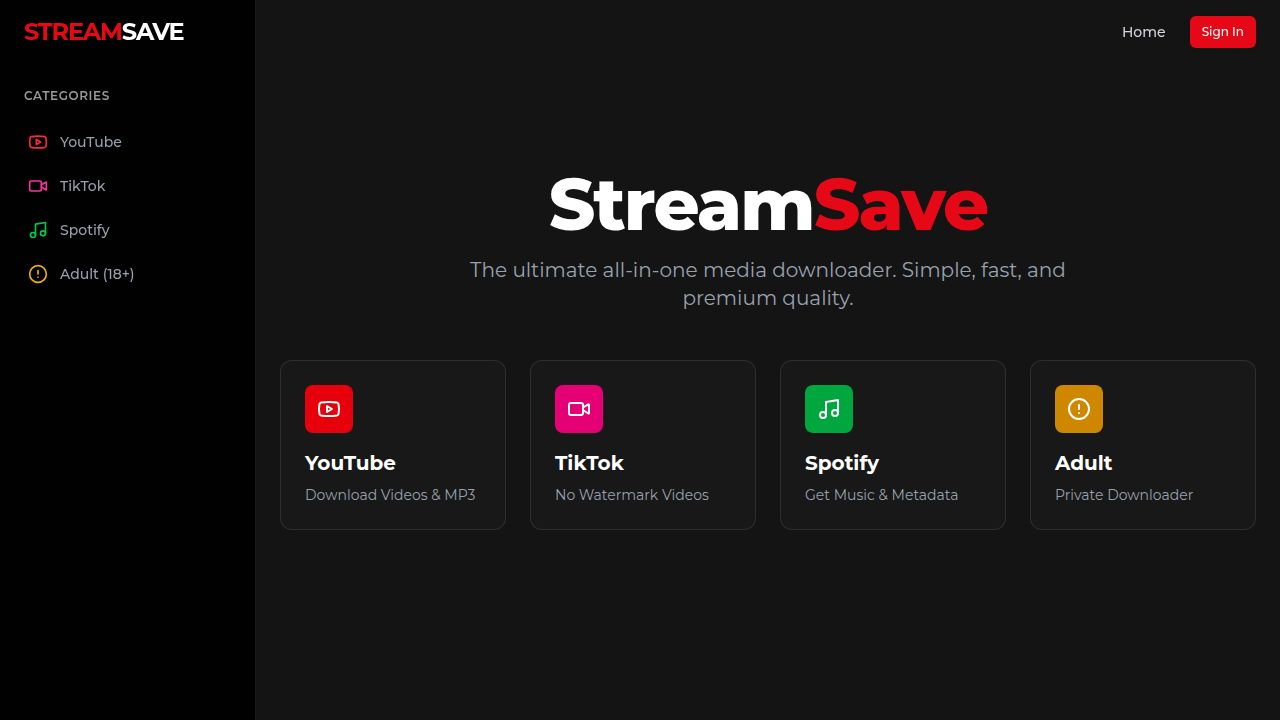
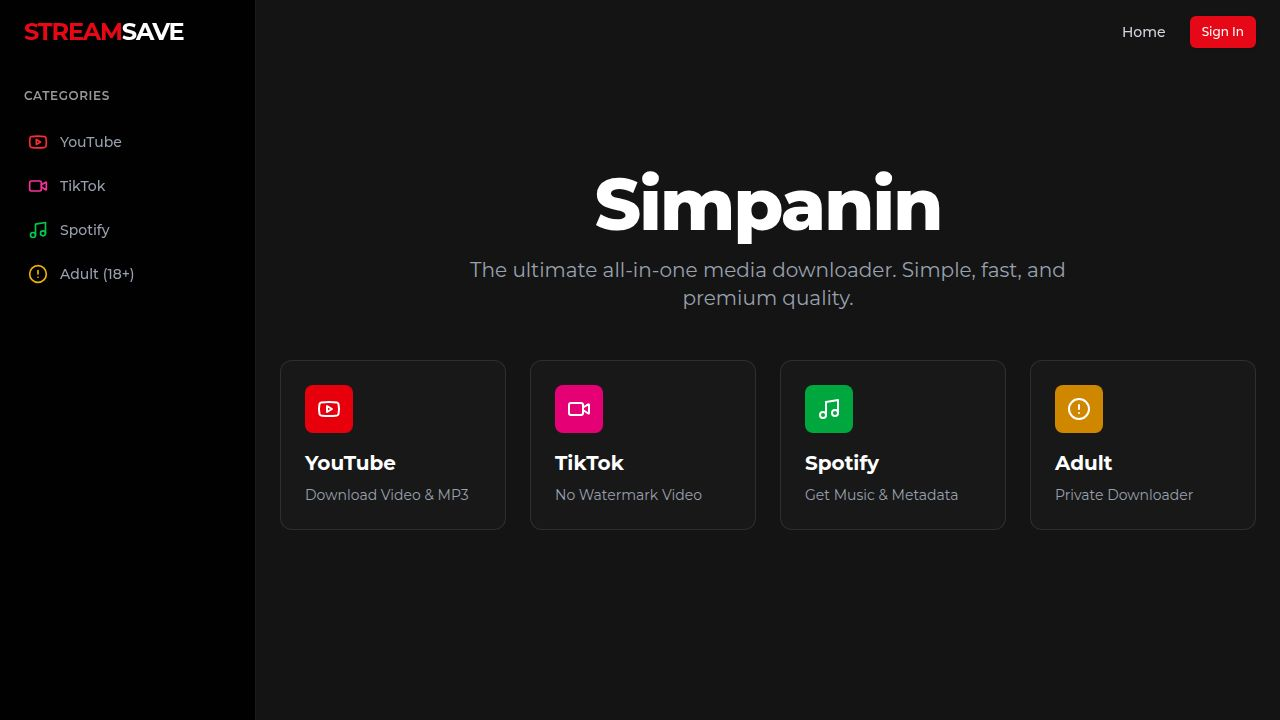
Update website branding and project ID to Simpanin
Updates the website's branding from "StreamSave" to "Simpanin" in HTML meta tags and the home page heading. Also changes the Firebase project ID in .firebaserc to "simpanin".

Replit-Commit-Author: Agent
Replit-Commit-Session-Id: d67fe153-d065-44e1-95a8-fe693a14d3fc
Replit-Commit-Checkpoint-Type: full_checkpoint
Replit-Commit-Event-Id: 5d2c896a-f2ff-454d-b436-1acf352e4f3d
Replit-Commit-Screenshot-Url: https://storage.googleapis.com/screenshot-production-us-central1/4ffc467f-c58a-43ff-8ddf-04817bf4e263/d67fe153-d065-44e1-95a8-fe693a14d3fc/lK0tKIC
Replit-Helium-Checkpoint-Created: true

Changed region(s): [[0.4062, 0.2444, 0.7812, 0.3361], [0.3125, 0.6722, 0.375, 0.7028]]

diff --git a/client/index.html b/client/index.html
@@ -4,13 +4,13 @@
     <meta charset="UTF-8" />
     <meta name="viewport" content="width=device-width, initial-scale=1.0, maximum-scale=1" />
 
-    <meta property="og:title" content="StreamSave - Premium Media Downloader" />
+    <meta property="og:title" content="Simpanin - Premium Media Downloader" />
     <meta property="og:description" content="Download video dan musik dari YouTube, TikTok, Spotify, dan lainnya dengan mudah dan cepat." />
     <meta property="og:type" content="website" />
     <meta property="og:image" content="https://replit.com/public/images/opengraph.png" />
     <meta name="twitter:card" content="summary_large_image" />
     <meta name="twitter:site" content="@replit" />
-    <meta name="twitter:title" content="StreamSave - Premium Media Downloader" />
+    <meta name="twitter:title" content="Simpanin - Premium Media Downloader" />
     <meta name="twitter:description" content="Download video dan musik dari YouTube, TikTok, Spotify, dan lainnya dengan mudah dan cepat." />
     <meta name="twitter:image" content="https://replit.com/public/images/opengraph.png" />
 

diff --git a/client/src/pages/Home.tsx b/client/src/pages/Home.tsx
@@ -20,7 +20,7 @@ export default function Home() {
             className="text-center"
         >
             <h1 className="mb-4 text-5xl font-extrabold tracking-tight text-white md:text-7xl" data-testid="heading-home">
-              Stream<span className="text-primary">Save</span>
+              Simpanin
             </h1>
             <p className="mb-12 text-xl text-gray-400 max-w-2xl mx-auto">
               The ultimate all-in-one media downloader. Simple, fast, and premium quality.
